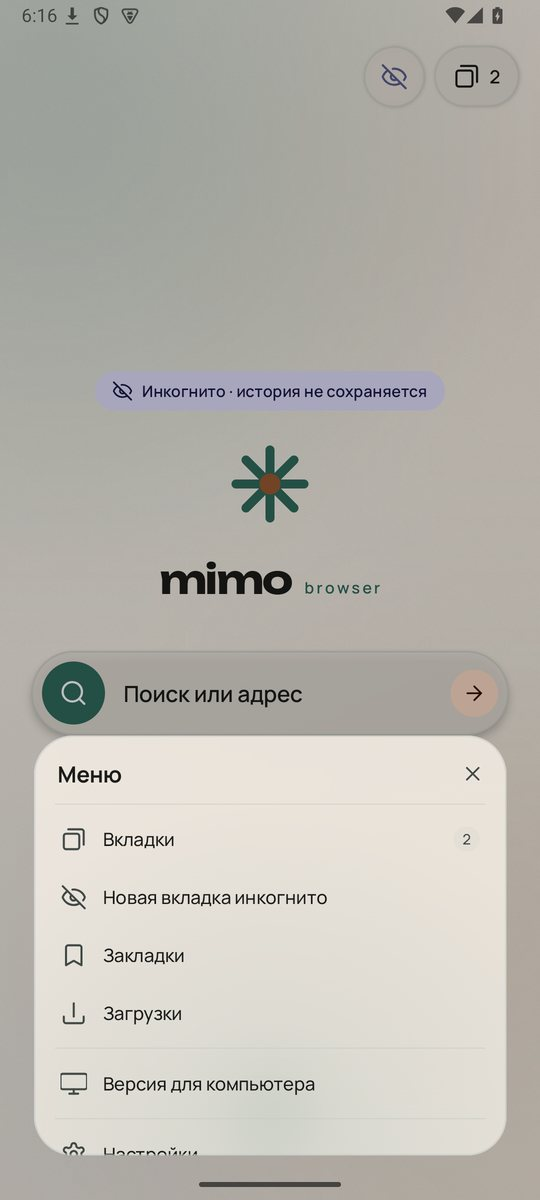
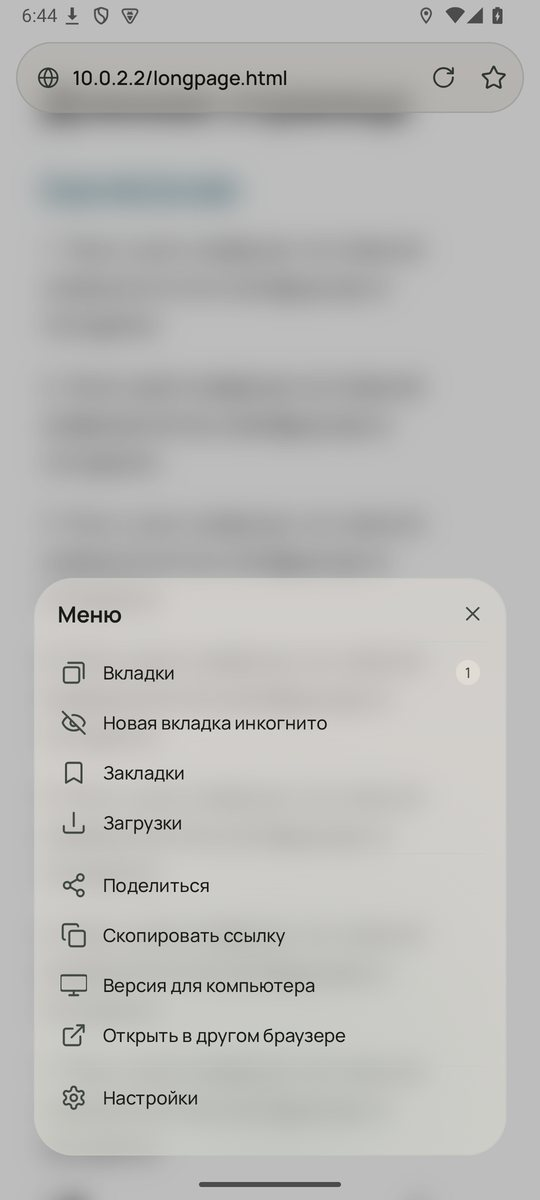
Make the dock menu static

diff --git a/app/src/main/java/app/mimo/browser/ui/components/BrowserDock.kt b/app/src/main/java/app/mimo/browser/ui/components/BrowserDock.kt
@@ -39,10 +39,8 @@ import androidx.compose.foundation.layout.offset
 import androidx.compose.foundation.layout.padding
 import androidx.compose.foundation.layout.size
 import androidx.compose.foundation.layout.width
-import androidx.compose.foundation.rememberScrollState
 import androidx.compose.foundation.shape.CircleShape
 import androidx.compose.foundation.shape.RoundedCornerShape
-import androidx.compose.foundation.verticalScroll
 import androidx.compose.material3.HorizontalDivider
 import androidx.compose.material3.Icon
 import androidx.compose.material3.IconButton
@@ -644,13 +642,12 @@ private fun MenuContent(
     Column(
         Modifier
             .fillMaxSize()
-            .verticalScroll(rememberScrollState())
             .padding(8.dp),
     ) {
         Row(
             modifier = Modifier
                 .fillMaxWidth()
-                .height(42.dp)
+                .height(38.dp)
                 .padding(start = 10.dp, end = 2.dp),
             verticalAlignment = Alignment.CenterVertically,
         ) {
@@ -795,7 +792,7 @@ private fun MenuRow(
             )
             .pressScale(interaction, 0.98f)
             .fillMaxWidth()
-            .height(44.dp),
+            .height(38.dp),
         shape = RoundedCornerShape(15.dp),
         color = if (checked) MaterialTheme.colorScheme.secondaryContainer else Color.Transparent,
         contentColor = if (checked) MaterialTheme.colorScheme.onSecondaryContainer
